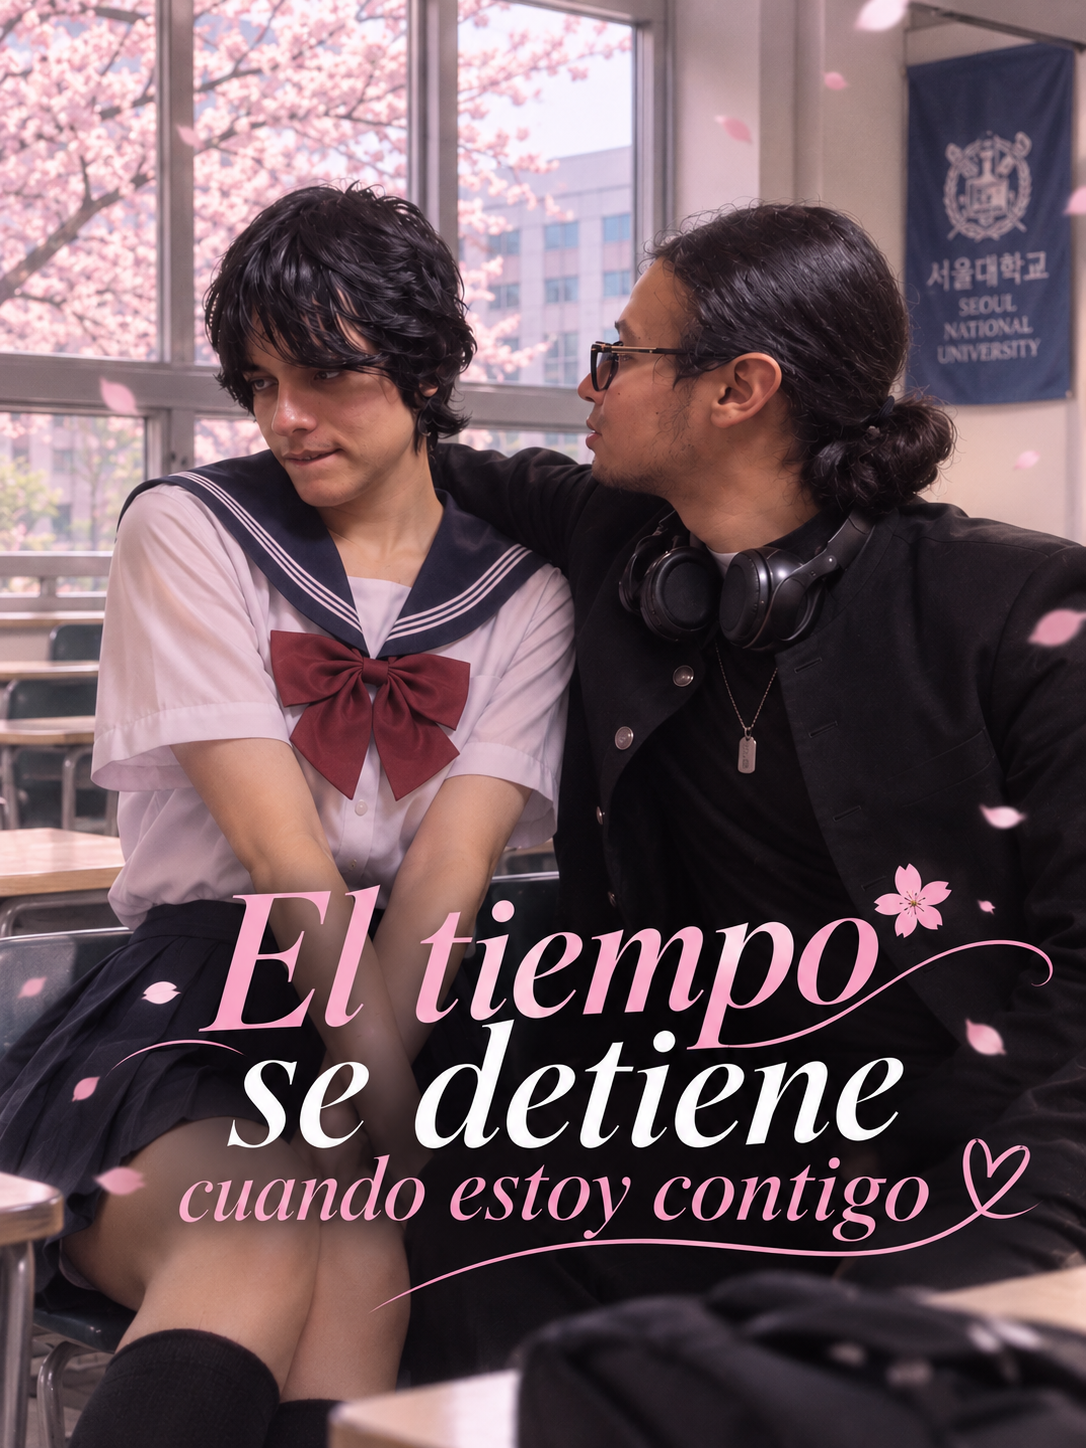
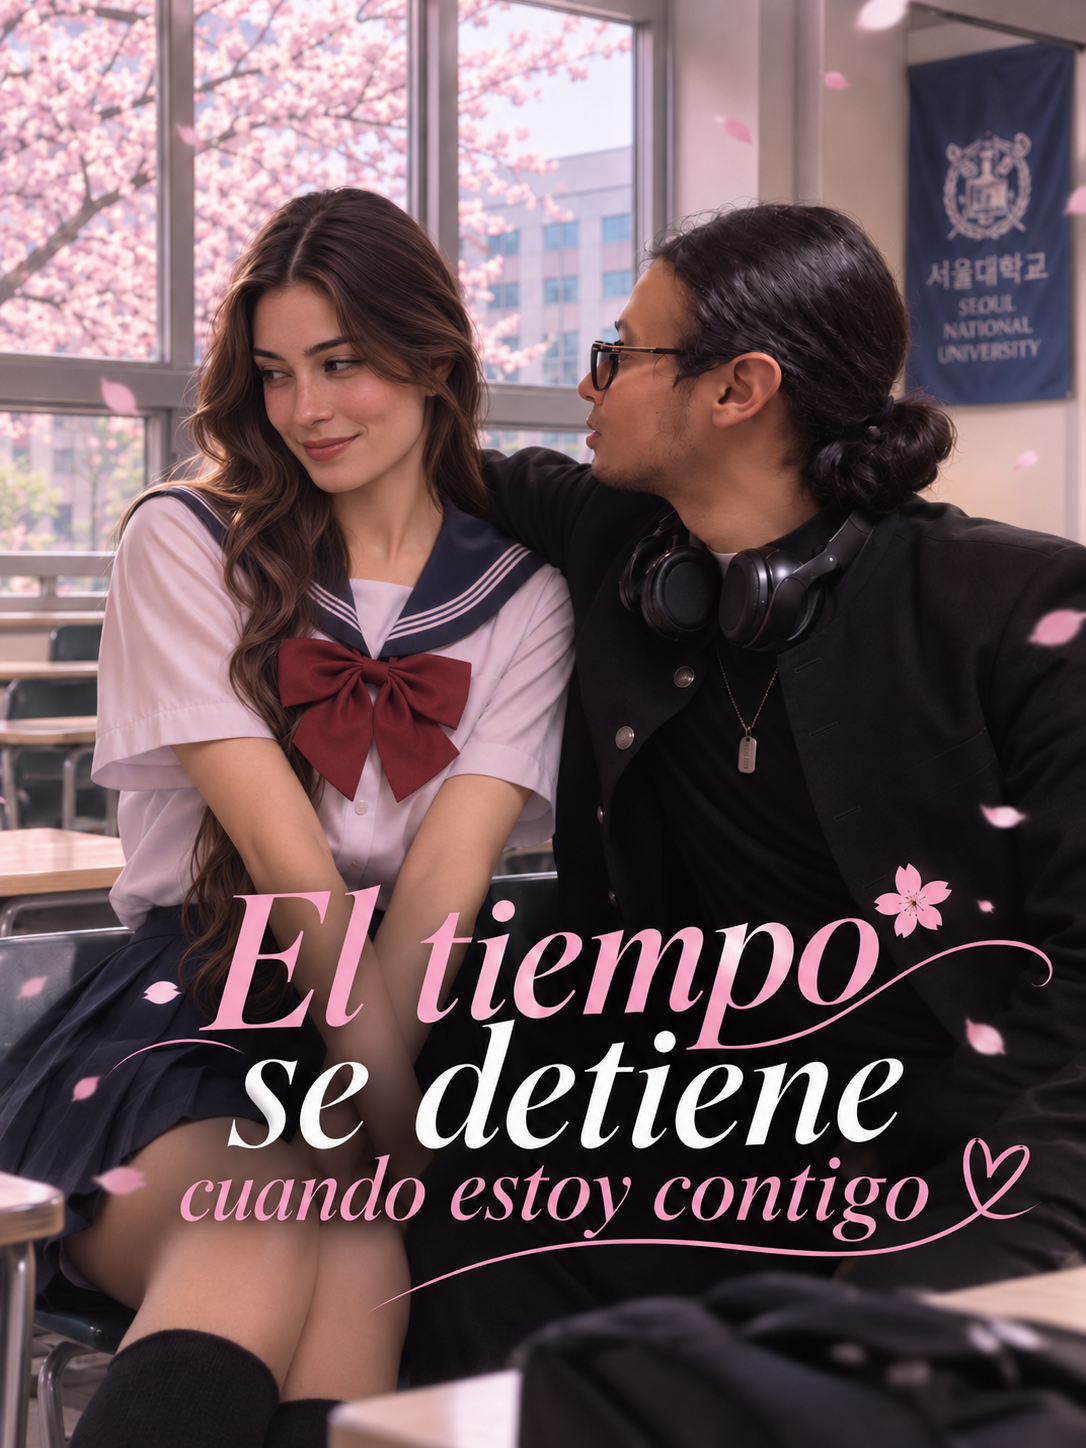
Agrega favoritos y documenta la entrega de CineSpot

diff --git a/index.html b/index.html
@@ -22,6 +22,7 @@
         </a>
 
         <div class="header-meta">
+          <a href="#favoritos" class="favoritos-link">Favoritos ({{ favoritos.length }})</a>
           <span class="catalog-stat">
             <strong>{{ totalPeliculas }}</strong> películas
           </span>
@@ -171,6 +172,8 @@
             :key="item.id"
             :item="item"
             :genero-activo="generoActivo"
+            :es-favorito="idsFavoritos.has(item.id)"
+            @alternar-favorito="alternarFavorito"
             @filtrar-genero="cambiarGenero"
             @seleccionar-obra="abrirDetalle"
           ></media-card>
@@ -189,6 +192,25 @@
             Restablecer todos los filtros
           </button>
         </div>
+      </section>
+      <section id="favoritos" class="favoritos-section" aria-labelledby="favoritos-heading">
+        <div class="section-header">
+          <h2 id="favoritos-heading" class="section-title">Favoritos</h2>
+          <span class="section-count">{{ favoritos.length }} guardados</span>
+        </div>
+        <div v-if="favoritos.length" class="catalog-grid">
+          <media-card
+            v-for="item in favoritos"
+            :key="item.id"
+            :item="item"
+            :genero-activo="generoActivo"
+            :es-favorito="true"
+            @alternar-favorito="alternarFavorito"
+            @filtrar-genero="cambiarGenero"
+            @seleccionar-obra="abrirDetalle"
+          ></media-card>
+        </div>
+        <p v-else class="empty-catalog-state">Marca la estrella de una película o serie para guardarla aquí.</p>
       </section>
     </main>
 

diff --git a/src/components/MediaCard.js b/src/components/MediaCard.js
@@ -5,12 +5,13 @@ const MediaCard = {
       type: Object,
       required: true
     },
+    esFavorito: Boolean,
     generoActivo: {
       type: String,
       default: "Todos"
     }
   },
-  emits: ["filtrar-genero", "seleccionar-obra"],
+  emits: ["filtrar-genero", "seleccionar-obra", "alternar-favorito"],
   template: `
     <article
       class="media-card is-interactive"
@@ -18,8 +19,8 @@ const MediaCard = {
       role="button"
       :aria-label="'Ver ficha técnica de ' + item.titulo"
       @click="$emit('seleccionar-obra', item)"
-      @keydown.enter.prevent="$emit('seleccionar-obra', item)"
-      @keydown.space.prevent="$emit('seleccionar-obra', item)"
+      @keydown.enter.self.prevent="$emit('seleccionar-obra', item)"
+      @keydown.space.self.prevent="$emit('seleccionar-obra', item)"
     >
       <div class="poster-frame">
         <img
@@ -54,6 +55,16 @@ const MediaCard = {
             {{ item.genero }}
           </button>
           <span class="card-year">{{ item.anio }}</span>
+          <button
+            type="button"
+            class="favorito-btn"
+            :aria-pressed="esFavorito"
+            :aria-label="'Favorito: ' + item.titulo"
+            :title="esFavorito ? 'Quitar de favoritos' : 'Agregar a favoritos'"
+            @click.stop="$emit('alternar-favorito', item.id)"
+          >
+            <span aria-hidden="true">{{ esFavorito ? '★' : '☆' }}</span>
+          </button>
         </div>
       </div>
     </article>

diff --git a/src/app.js b/src/app.js
@@ -10,6 +10,17 @@ function normalizarTexto(texto) {
     .trim();
 }
 
+const CLAVE_FAVORITOS = "cinespot:favoritos";
+
+function cargarFavoritos() {
+  try {
+    const ids = JSON.parse(localStorage.getItem(CLAVE_FAVORITOS));
+    return new Set(Array.isArray(ids) ? ids : []);
+  } catch {
+    return new Set();
+  }
+}
+
 const app = createApp({
   components: {
     MediaCard,
@@ -19,6 +30,22 @@ const app = createApp({
   },
   setup() {
     const catalogo = ref(CATALOGO_CONTENIDO);
+    const idsFavoritos = ref(cargarFavoritos());
+    const favoritos = computed(() =>
+      catalogo.value.filter((item) => idsFavoritos.value.has(item.id))
+    );
+
+    function alternarFavorito(id) {
+      const ids = idsFavoritos.value;
+      if (!ids.delete(id)) ids.add(id);
+
+      try {
+        localStorage.setItem(CLAVE_FAVORITOS, JSON.stringify([...ids]));
+      } catch {
+        // La selección sigue disponible durante la sesión.
+      }
+    }
+
     const terminoBusqueda = ref("");
     const tipoActivo = ref("Todos");
     const generoActivo = ref("Todos");
@@ -278,6 +305,9 @@ const app = createApp({
 
     return {
       catalogo,
+      favoritos,
+      idsFavoritos,
+      alternarFavorito,
       terminoBusqueda,
       tipoActivo,
       generoActivo,

diff --git a/src/styles/main.css b/src/styles/main.css
@@ -799,6 +799,46 @@ body {
   font-variant-numeric: tabular-nums;
 }
 
+.favoritos-section {
+  margin-top: 4rem;
+  scroll-margin-top: 5rem;
+}
+
+.favoritos-link {
+  color: var(--accent-gold);
+  white-space: nowrap;
+}
+
+.favoritos-link:hover {
+  text-decoration: underline;
+}
+
+.favorito-btn {
+  display: grid;
+  place-items: center;
+  flex-shrink: 0;
+  margin-inline-start: auto;
+  min-width: 2.75rem;
+  min-height: 2.75rem;
+  color: var(--text-primary);
+  background: var(--bg-card);
+  border: 1px solid var(--border-subtle);
+  border-radius: var(--radius-sm);
+  font-size: 1.25rem;
+  cursor: pointer;
+}
+
+.favorito-btn:hover,
+.favorito-btn[aria-pressed="true"] {
+  color: var(--accent-gold);
+  border-color: var(--accent-gold);
+}
+
+.favorito-btn:focus-visible {
+  outline: 2px solid var(--accent-gold);
+  outline-offset: 2px;
+}
+
 /* Cuadrícula de Catálogo */
 .catalog-grid {
   display: grid;
